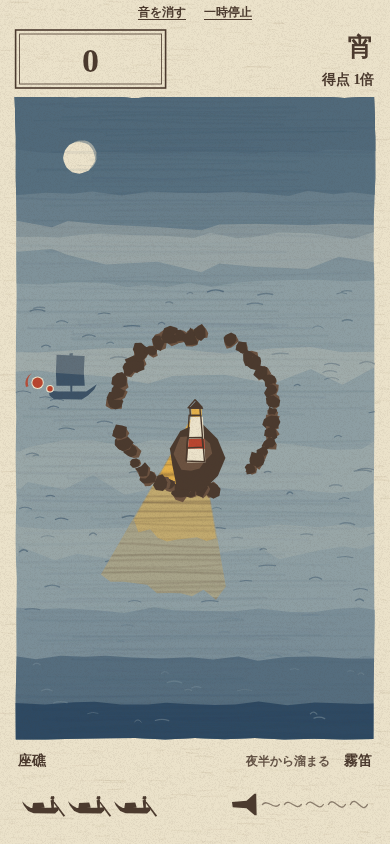
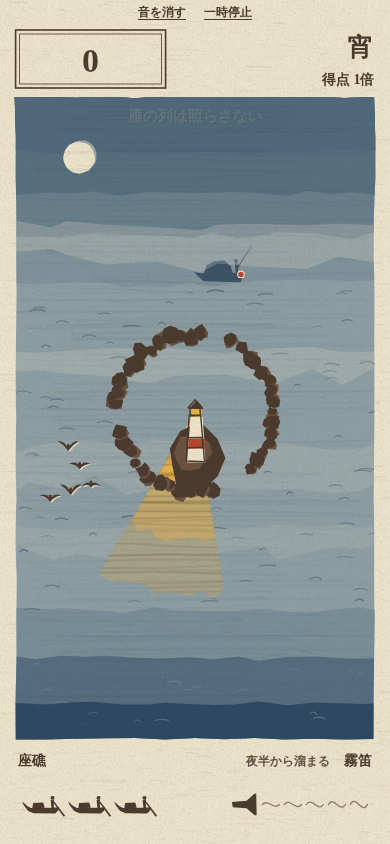
arcade 005: add geese you must not light (penalty: light goes out 3s + score loss), per owner playtest
Claude-Session: https://claude.ai/code/session_01C9PKe73xnsQCPuibChcCfd

diff --git a/arcade/games/005-lighthouse-keeper/index.html b/arcade/games/005-lighthouse-keeper/index.html
@@ -62,7 +62,7 @@ button:focus-visible{outline:3px solid var(--ai);outline-offset:3px}
   <div class="dai">
     <h1>霧笛の灯</h1>
     <p class="sub">霧の夜、岬の灯台守の当番</p>
-    <p class="how">灯台の周りを指でなでると、光がその向きへ回ります。光の中で船が色づいたら、気づいて帰っていきます。</p>
+    <p class="how">灯台の周りを指でなでると、光がその向きへ回ります。光の中で船が色づいたら、気づいて帰っていきます。ただし雁の列は照らさないこと。灯に迷ってぶつかり、灯が消えます。</p>
     <p class="keys">岩礁で3隻座礁したら当番終わり。PCはマウスか<span style="white-space:nowrap">← →</span>。霧笛はダブルタップかスペース。</p>
     <div class="row"><button id="bStart" type="button">灯をともす</button><span class="best" id="bestT"></span></div>
   </div>
@@ -83,6 +83,7 @@ button:focus-visible{outline:3px solid var(--ai);outline-offset:3px}
     <dl>
       <dt>帰した船</dt><dd id="rSaved">0隻</dd>
       <dt>まとめて照らした</dt><dd id="rGroup">1隻</dd>
+      <dt>灯に迷わせた雁</dt><dd id="rStray">0列</dd>
       <dt>着いた時刻</dt><dd id="rBand">宵</dd>
       <dt>これまでの最高</dt><dd id="rBest">0</dd>
     </dl>
@@ -107,14 +108,14 @@ const SIM = (() => {
   function create(seed) {
     return { t: 0, rnd: rng(seed || 1), ang: -Math.PI / 2, w: 0, ships: [], crews: [], score: 0, saved: 0, wrecks: 0,
       maxGroup: 0, horn: 0, nextSpawn: 1.4, lastAng: -Math.PI / 2, group: null, over: false, dawn: false, id: 0,
-      wreckTimes: [], log: [] };
+      wreckTimes: [], log: [], birds: [], nextBird: 2.2, dark: 0, strays: 0, bid: 0 };
   }
   const spd = (t) => 0.18 + 0.0045 * t;               // 単位/秒（岩礁まで 1.5 単位）
   const gap = (t) => Math.max(0.55, 2.4 - 0.023 * t);   // 次の船までの間隔
   const spread = (t) => Math.min(Math.PI, 1.1 + t * 0.03);
   const ttr = (s) => (s.state === "come" ? (s.r - REEF) / s.v : 99);
   function inBeam(S, th, r, pad) {
-    if (r > BEAM_LEN) return false;
+    if (r > BEAM_LEN || S.dark > 0) return false;
     return Math.abs(wrap(th - S.ang)) < HALF + pad + Math.atan2(0.2, Math.max(r, 0.3));
   }
   function spawn(S) {
@@ -135,6 +136,18 @@ const SIM = (() => {
     S.ships.push({ id: ++S.id, kind, th, r: SPAWN, v, arr, state: "come", lit: 0, pr: 0, age: 0, close: false });
     S.lastAng = th;
   }
+  // 雁の列（照らしてはいけないもの）: 霧の上を弦に沿って横切る。照らし続けると灯に迷って灯室にぶつかり、灯が消える
+  const BIRD_NEED = 0.3, DARK = 3;
+  function spawnBird(S) {
+    const t = S.t, R = S.rnd;
+    // 最初の1列は船の来ない下の半円を横切る（見せるための1列）
+    const phi = t < 10 ? Math.PI / 2 + (R() * 2 - 1) * 0.35 : R() * TAU;
+    const d = t < 10 ? 1.25 + R() * 0.3 : 1.05 + R() * 0.8, sg = R() < 0.5 ? -1 : 1;
+    const nx = Math.cos(phi), ny = Math.sin(phi), ux = -ny * sg, uy = nx * sg;
+    const L = Math.sqrt((t < 10 ? 2.55 : 3.0) ** 2 - d * d), v = 0.4 + 0.0016 * t;
+    S.birds.push({ id: ++S.bid, x: nx * d - ux * L, y: ny * d - uy * L, vx: ux * v, vy: uy * v, lit: 0, state: "fly", age: 0, first: t < 10 });
+  }
+  const birdGap = (t) => Math.max(8, 24 - 0.11 * t);
   function finishGroup(S, ev) {
     const g = S.group; S.group = null;
     const n = g.n, bonus = g.horn ? Math.min(1.5, n >= 2 ? 1.5 : 1) : n >= 3 ? 2 : n === 2 ? 1.5 : 1;
@@ -174,6 +187,28 @@ const SIM = (() => {
       ev.push({ type: "horn" });
       for (const s of S.ships) if (s.state === "come" && s.r < SPAWN - 0.05) rescue(S, s, ev, true);
     }
+    // 灯が消えている時間
+    if (S.dark > 0) S.dark = Math.max(0, S.dark - dt);
+    // 雁の列
+    const flying = S.birds.filter((b) => b.state === "fly").length;
+    if (S.t >= S.nextBird && flying < (S.t < 100 ? 1 : 2)) {
+      spawnBird(S); ev.push({ type: "bird", first: S.t < 10 });
+      S.nextBird = S.t < 10 ? 32 + S.rnd() * 4 : S.t + birdGap(S.t) * (0.8 + S.rnd() * 0.4);
+    }
+    for (const b of S.birds) {
+      b.age += dt;
+      if (b.state !== "fly") continue;
+      b.x += b.vx * dt; b.y += b.vy * dt;
+      const r = Math.hypot(b.x, b.y), th = Math.atan2(b.y, b.x);
+      if (inBeam(S, th, r, 0.06)) b.lit += dt; else b.lit = Math.max(0, b.lit - dt * 0.5);
+      if (b.lit >= BIRD_NEED) {
+        b.state = "stray"; b.age = 0; S.dark = DARK; S.strays++;
+        const pen = Math.min(S.score, 20 * MULT[bandOf(S.t)]);
+        S.score -= pen;
+        ev.push({ type: "stray", bird: b, pen });
+      } else if (r > 3.1 && b.x * b.vx + b.y * b.vy > 0) b.state = "gone";
+    }
+    S.birds = S.birds.filter((b) => b.state === "fly" || (b.state === "stray" && b.age < 1.4));
     // 出現
     const active = S.ships.filter((s) => s.state === "come").length;
     if (S.t >= S.nextSpawn && !(S.t < 20 && active > 0)) {
@@ -223,7 +258,7 @@ const SIM = (() => {
     }
     return ev;
   }
-  return { create, step, wrap, ttr, bandOf, inBeam, MULT, BANDS, REEF, SPAWN, BEAM_LEN, HALF, END_T, MAX_WRECK };
+  return { create, step, wrap, ttr, bandOf, inBeam, BIRD_NEED, DARK, MULT, BANDS, REEF, SPAWN, BEAM_LEN, HALF, END_T, MAX_WRECK };
 })();
 // </sim>
 
@@ -521,7 +556,7 @@ const SIM = (() => {
     ctx.drawImage(grainLayer, pic.x, pic.y, pic.w, pic.h);
     ctx.restore();
   }
-  function drawLighthouse() {
+  function drawLighthouse(dark) {
     const s = sS * 0.95, bx = cx, by = cy + 50 * s;
     if (!drawLighthouse.p) {
       seed = 71;
@@ -532,8 +567,42 @@ const SIM = (() => {
     const P = drawLighthouse.p;
     ctx.save(); ctx.translate(bx, by); ctx.scale(s, s);
     ctx.save(); ctx.translate(1.5, 1.2); P.col.forEach(([p, f]) => { ctx.fillStyle = f; ctx.fill(p); }); ctx.restore();
+    if (dark) { ctx.fillStyle = C.kage; ctx.fill(P.col[2][0]); }
     ctx.strokeStyle = C.koge; ctx.lineWidth = 1.4; ctx.lineJoin = "round"; P.ink.forEach((p) => ctx.stroke(p));
     ctx.restore();
+  }
+  // 雁: 1羽は「へ」の字の翼。列はく の字に5羽
+  const FLOCK = [[0, 0], [-1, -0.8], [-2, -1.6], [-1, 0.8], [-2, 1.6]];
+  function goose(x, y, sz, flap, col) {
+    const up = flap * sz * 0.55;
+    ctx.fillStyle = col; ctx.beginPath();
+    ctx.moveTo(x - sz, y - up); ctx.quadraticCurveTo(x - sz * 0.45, y - sz * 0.35 - up * 0.4, x - sz * 0.12, y);
+    ctx.lineTo(x + sz * 0.12, y);
+    ctx.quadraticCurveTo(x + sz * 0.45, y - sz * 0.35 - up * 0.4, x + sz, y - up);
+    ctx.quadraticCurveTo(x + sz * 0.5, y - sz * 0.05 - up * 0.3, x + sz * 0.1, y + sz * 0.3);
+    ctx.lineTo(x - sz * 0.1, y + sz * 0.3);
+    ctx.quadraticCurveTo(x - sz * 0.5, y - sz * 0.05 - up * 0.3, x - sz, y - up);
+    ctx.fill();
+    ctx.beginPath(); ctx.ellipse(x, y + sz * 0.08, sz * 0.16, sz * 0.32, 0, 0, TAU); ctx.fill();
+  }
+  function drawFlock(b, t) {
+    const sp = Math.hypot(b.vx, b.vy) || 1, hx = b.vx / sp, hy = b.vy / sp;
+    const [bx, by] = [cx + b.x * unit, cy + b.y * unit];
+    const sz = 10 * Math.min(1.35, sS), gap = 16 * Math.min(1.35, sS);
+    const fear = b.state === "fly" ? clamp(b.lit / SIM.BIRD_NEED, 0, 1) : 1;
+    const k = b.state === "stray" ? clamp(b.age / 0.6, 0, 1) : 0;
+    const a = b.state === "stray" ? clamp(1.4 - b.age, 0, 1) : clamp((3.1 - Math.hypot(b.x, b.y)) / 0.4, 0, 1);
+    if (a <= 0) return;
+    FLOCK.forEach((f, i) => {
+      // 進む向きに対して列を置く（先頭が前）
+      let x = bx + (hx * f[0] - hy * f[1]) * gap, y = by + (hy * f[0] + hx * f[1]) * gap;
+      x += Math.sin(t * 23 + i * 2.1) * fear * 5 * sS; y += Math.cos(t * 19 + i * 1.7) * fear * 5 * sS;
+      if (k > 0) { x += (cx - x) * k; y += (cy - y) * k; }
+      const flap = Math.sin(t * (5 + fear * 14) + i * 0.9);
+      ctx.globalAlpha = a * 0.8; goose(x + 1.3, y + 1.1, sz, flap, C.hosho);
+      ctx.globalAlpha = a; goose(x, y, sz, flap, C.koge);
+    });
+    ctx.globalAlpha = 1;
   }
   const pos = (th, r) => [cx + Math.cos(th) * r * unit, cy + Math.sin(th) * r * unit];
 
@@ -663,10 +732,12 @@ const SIM = (() => {
       ctx.restore();
     }
     drawFog(t, level);
-    drawBeam(ang, swing);
+    const dark = S ? S.dark : 0;
+    if (dark <= 0) drawBeam(ang, swing);
+    else if (dark < 0.5 && Math.sin(t * 40) > 0) { ctx.globalAlpha = 0.55; drawBeam(ang, 0); ctx.globalAlpha = 1; }
     ctx.drawImage(rockLayer, 0, 0, W, H);
     for (const c of crosses) stampCross(c.x, c.y, 9 * sS, c.a, false);
-    drawLighthouse();
+    drawLighthouse(dark > 0);
     // 座礁した船（傾く）
     for (const s of ships) {
       if (s.state !== "wreck") continue;
@@ -686,6 +757,8 @@ const SIM = (() => {
       drawShip(ctx, s.kind, s.id % 2, s.pr, shipVis(s), s.state === "leave" && turn < 0.5 ? !flip : flip, 0);
       ctx.restore();
     }
+    // 雁の列（照らしてはいけない）: 焦茶の影に奉書白の版ずれ。照らされると列が乱れる
+    if (S) for (const b of S.birds) drawFlock(b, t);
     // 小舟（乗組員）
     if (S) for (const c of S.crews) {
       const [x, y] = pos(c.th, c.r);
@@ -798,6 +871,7 @@ const SIM = (() => {
     horn() { tone("sawtooth", 82, 78, 2.2, 0.2, 0, 1.2); tone("sine", 41, 40, 2.2, 0.25, 0, 0); tone("sawtooth", 123, 118, 1.8, 0.08, 0.1, 1.5); },
     wreck() { noise(0.25, 1400, 1.2, 0.9); noise(0.4, 300, 0.8, 0.8, 0.03); tone("triangle", 90, 50, 0.35, 0.25); },
     seal() { noise(0.06, 900, 2, 0.6); tone("sine", 220, 180, 0.12, 0.2); },
+    stray() { noise(0.18, 3200, 3, 0.5); noise(0.3, 1800, 2, 0.35, 0.05); tone("square", 880, 560, 0.14, 0.05, 0.12); tone("square", 820, 520, 0.14, 0.05, 0.3); },
     crew() { tone("sine", 660, 660, 0.35, 0.12); tone("sine", 990, 990, 0.45, 0.08, 0.1); },
     start() { tone("sine", 130, 128, 1.1, 0.14, 0, 1.5); },
   };
@@ -819,6 +893,7 @@ const SIM = (() => {
     $("rScore").textContent = fmt(sc);
     $("rSaved").textContent = `${S.saved}隻`;
     $("rGroup").textContent = `${Math.max(1, S.maxGroup)}隻`;
+    $("rStray").textContent = `${S.strays}列`;
     $("rBand").textContent = dawn ? "夜明け" : SIM.BANDS[SIM.bandOf(S.t)];
     $("rBest").textContent = fmt(best);
     $("rNew").hidden = !isNew;
@@ -849,6 +924,14 @@ const SIM = (() => {
       } else if (e.type === "crew") {
         banner = { s: "乗組員を迎え入れた　座礁 −0.5", a: 2.2 }; sfx.crew();
         if (crosses.length) crosses[crosses.length - 1].a = 0.45;
+      } else if (e.type === "bird") {
+        if (e.first) banner = { s: "雁の列は照らさない", a: 3.2 };
+      } else if (e.type === "stray") {
+        const b = e.bird;
+        banner = { s: `雁が灯に迷った　灯が消える${e.pen ? ` −${e.pen}` : ""}`, a: 2.6 };
+        if (e.pen) fx.push({ type: "pts", s: `−${e.pen}`, x: cx + b.x * unit, y: cy + b.y * unit - 20 * sS, t: 0 });
+        sfx.stray();
+        if (navigator.vibrate) try { navigator.vibrate([40, 40, 40]); } catch (er) {}
       } else if (e.type === "horn") {
         hornFx = 1; sfx.horn();
       } else if (e.type === "over") finish(e.dawn);

diff --git a/arcade/games/005-lighthouse-keeper/plan.md b/arcade/games/005-lighthouse-keeper/plan.md
@@ -55,3 +55,12 @@
 - 印象に残す1点: 光の帯が通った所だけ、霧の影絵だった船が「刷り上がる」ように色版が重なって色づく（墨版→色版の順に一瞬で版が乗る）。飾りを1つ取る: 夜空の星（描かない。月だけ）。
 - 音: 波の低いざわめき（ホワイトノイズを低域フィルタ、1種類）。救助は汽笛（低い正弦波＋わずかなビブラート、隻ごとに音程を変えて和音に）。霧笛は長く太い「ぼぉーー」。座礁は木の割れる短いノイズ。WebAudio で合成、M で消音。
 - design-log 直近（001 日本画・002 凧・003 航空郵便・004 地形図）と、借りてくる物・パレット・フォントは被らない。
+
+## 改訂 2026-10-05
+オーナーの感想「バツの要素がない。影を全部照らせば終わる」を受けて、**照らしてはいけないもの**を足し、「どこへ光を向けるか」に加えて「どこへ向けてはいけないか」の判断を作る。
+- 足したもの: **雁の列**（5羽の く の字）。霧の上を弦に沿って横切る渡り鳥。灯台の光が渡り鳥を惑わせて灯室にぶつけてしまうのは実際の灯台守の悩みで、新版画の「月に雁」とも合う。
+- 失敗: 光の中に合計0.3秒入れると、雁が灯に迷って灯室にぶつかり、**灯が3秒消える**（その間は船も小舟も照らせない。最後の0.5秒だけ明滅して戻る）＋**得点 −20×時間帯倍率**。ガラスの割れる音と雁の鳴き声、告知「雁が灯に迷った　灯が消える −n」。結果画面に「灯に迷わせた雁 n列」。0.3秒の猶予があるので、振り抜いて一瞬かすめるのは許す（止めて当て続けるのが失敗）。霧笛（音）は雁に効かない＝消灯中の取り返しの一手になる。
+- 見分け方: 船は藍の影絵（横長の船体・朱の舷灯）、雁は焦茶の「へ」の字の翼が奉書白の版ずれで縁取られ、羽ばたいて列で動く。照らされかけると羽ばたきが速くなり列が乱れる（警告）。
+- 出現: 開始2秒ごろに1列だけ、船の来ない下の半円を横切る（見せるための1列。告知「雁の列は照らさない」）。次は32〜36秒、以後の間隔は 24秒 → 最短8秒へ縮む。同時に飛ぶのは100秒までは1列、以後2列まで。
+- 自動プレイ（40回ずつ）: 人を想定（反応0.35秒・±12°）で雁を避けるボットは終了中央値 81秒（54〜112）、迷わせた雁 中央値1列。雁を無視すると 77秒・2列。即座に追うボットは避けて 113秒、無視して 103秒（4列）。同時座礁 0。learnings 002 の 60〜150秒に収まる。
+- 説明の更新: タイトルに「ただし雁の列は照らさないこと。灯に迷ってぶつかり、灯が消えます。」を足した。見た目は既存のパレット（焦茶・奉書白）と版ずれの約束のまま、新しい色は足していない。

diff --git a/arcade/learnings.md b/arcade/learnings.md
@@ -7,3 +7,4 @@
 - [2026-10-04 004] 序盤の猶予を一律にすると切れた瞬間に罰が同時多発する。猶予は対象ごとにずらし、自動プレイで「同時に起きた罰の数」も確かめる。
 - [2026-10-04 003] オーナー判断: 「夜勤の郵便局で仕分け」のような仮想の仕事をおもしろおかしく遊ぶのは OK（オーバークック型）。避けるのは、会議・メール・残業など現実の会社員の仕事を思い出させる題材だけ。
 - [2026-10-05 005] 即座に反応するボットに加え、反応0.35秒・狙いのぶれ±12°の「人を想定したボット」も監査前に回し、終了時間と同時の罰を確かめる。
+- [2026-10-05 005] 判断の要素（触ってはいけない物・やってはいけない操作）を入れる。全部押せば終わる遊びは単調（オーナーの感想）。
